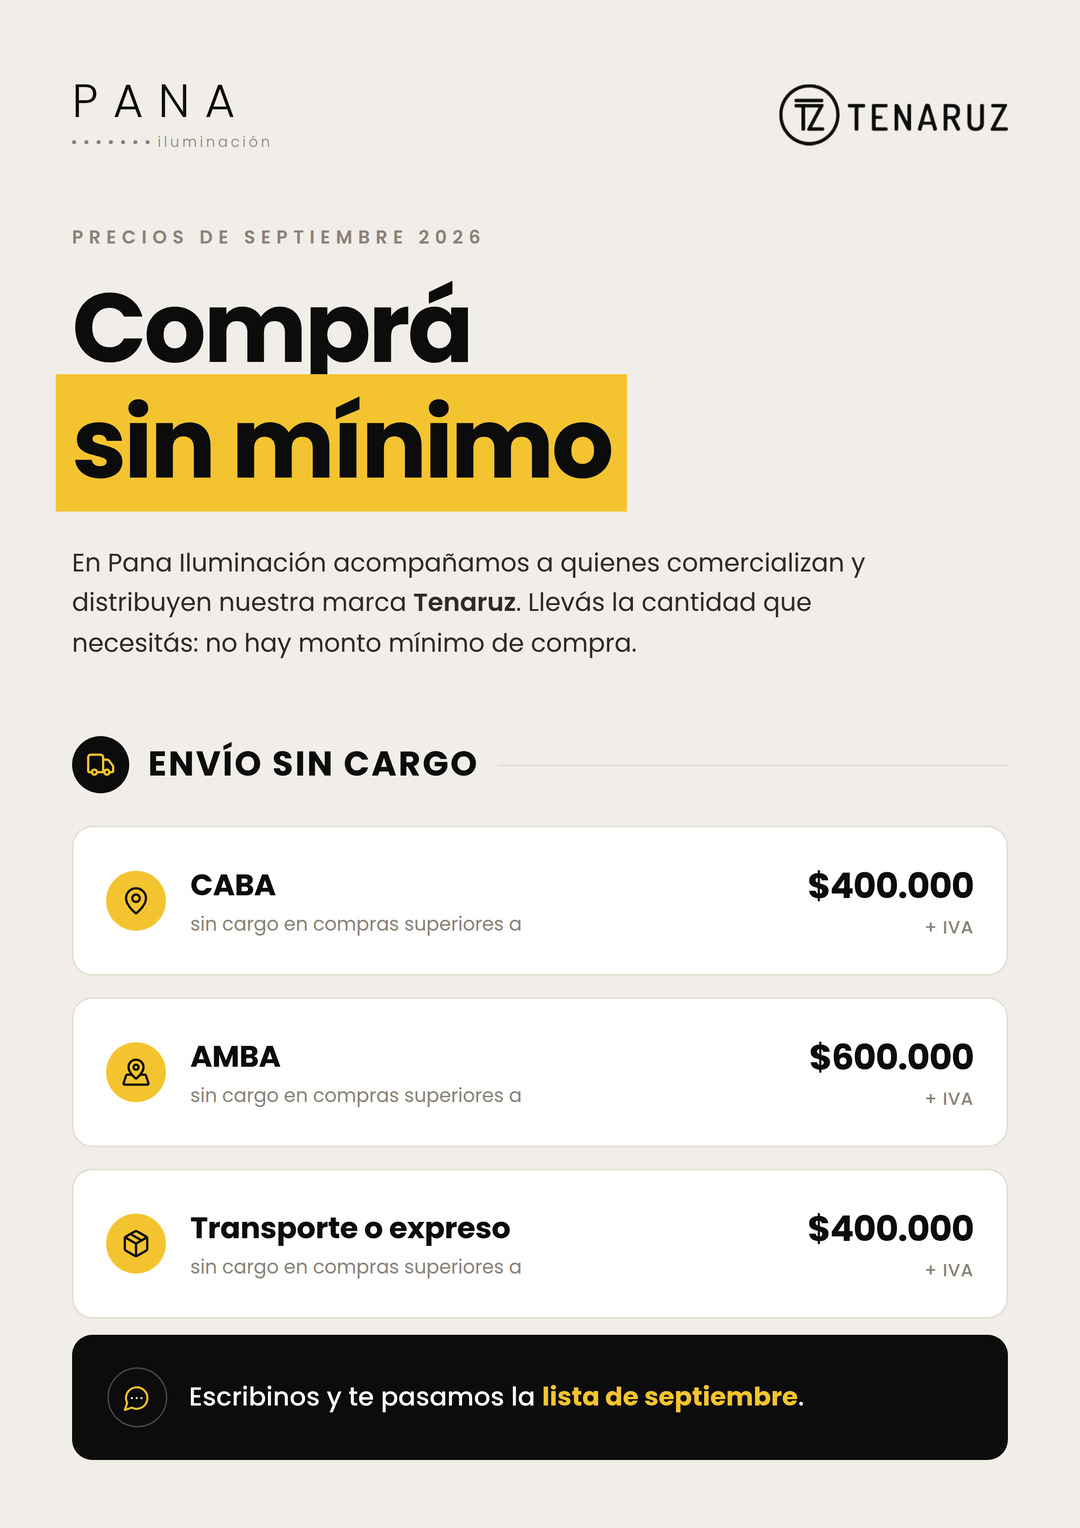
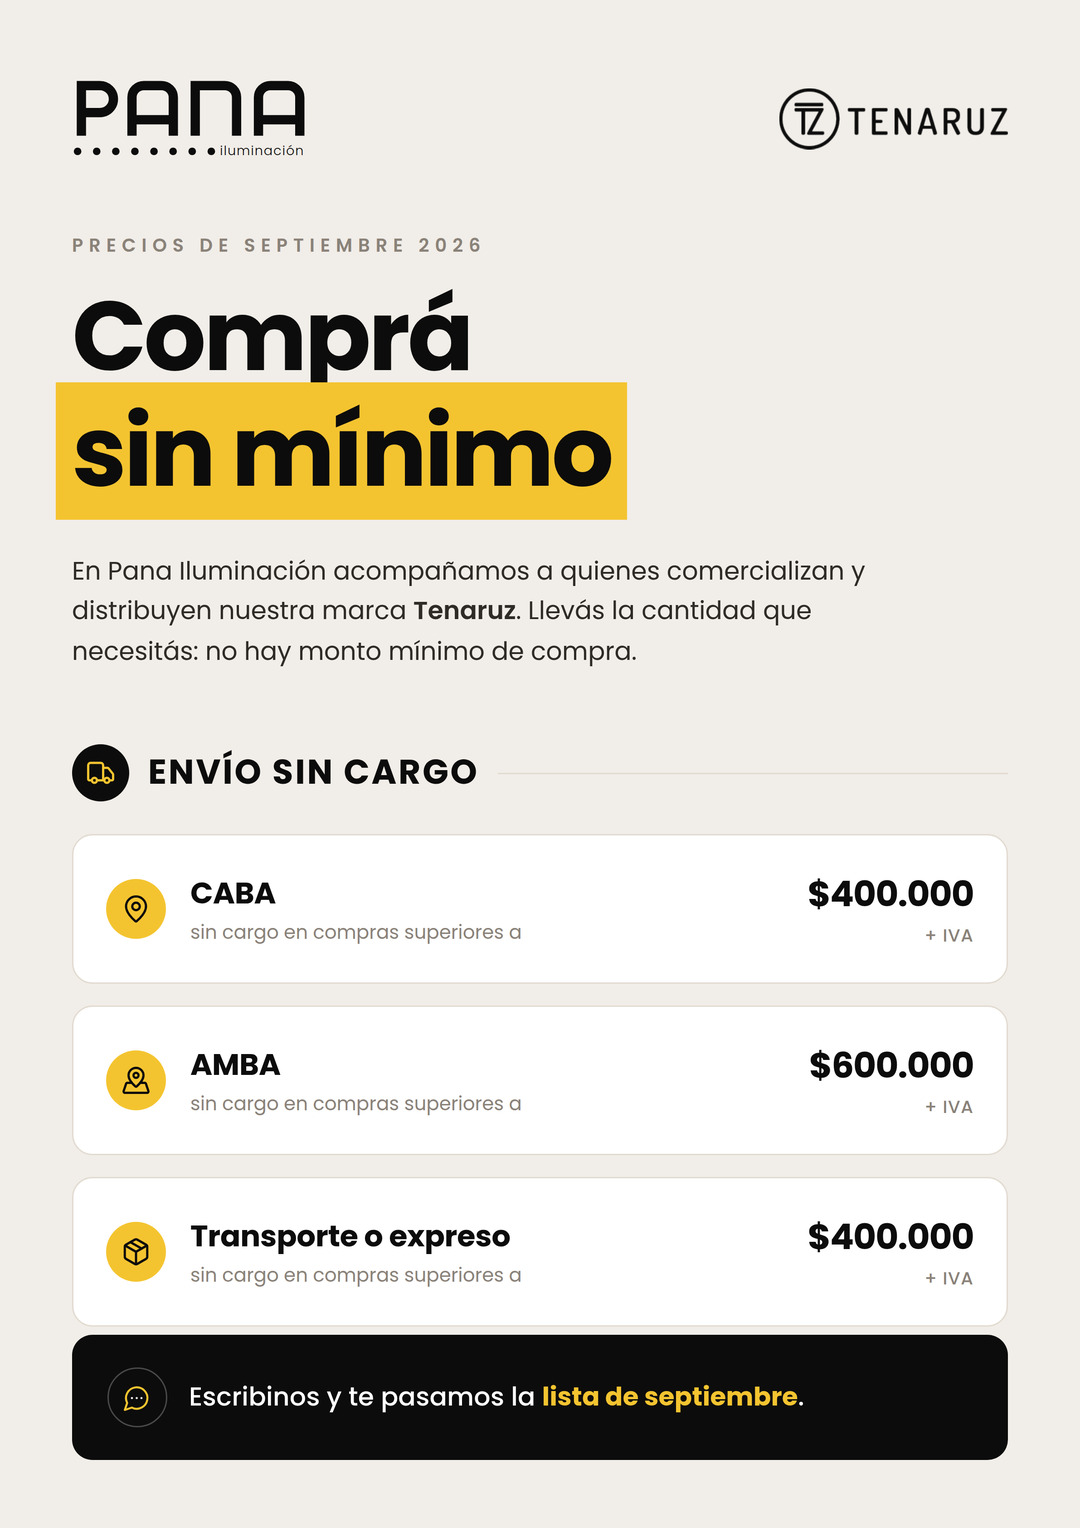
Redibujar el lockup de PANA como vector monolineal
Las letras compuestas con Poppins no eran las del logo. El mark es de trazo
uniforme, así que se dibuja con stroke sobre las líneas medias en vez de
contornear cada letra: la P con panza semicircular, las A como arco de hombros
redondeados con travesaño, la N con asta recta y hombro a la derecha.

Es un trazado a ojo sobre la imagen de referencia, no el archivo original: el
logo llegó pegado en el chat, que no baja a disco, y el sitio de la marca no es
alcanzable desde acá. Queda anotado en el README junto con las proporciones
medidas, para corregir una curva o cambiarlo por el archivo real sin rehacerlo.

Claude-Session: https://claude.ai/code/session_011TtjXybLazAdvjPJRYS2RU

diff --git a/flyers/pana_logo.py b/flyers/pana_logo.py
@@ -1,0 +1,43 @@
+"""El lockup de PANA como SVG monolineal.
+
+El logo es de trazo uniforme, así que se dibuja con `stroke` sobre las líneas
+medias en vez de contornear cada letra: los empalmes salen exactos y el grosor
+se cambia en un solo lugar.
+
+Sistema de coordenadas: altura de mayúscula de 210 a 340, grosor de trazo 22.
+"""
+
+TRAZO = 22
+PALABRA = [
+    # P: asta y panza semicircular a la derecha
+    "M36 340 V221 H80 A32 32 0 0 1 80 285 H36",
+    # A: arco de hombros redondeados sobre dos astas, con travesaño
+    "M156 340 V249 A28 28 0 0 1 184 221 H226 A28 28 0 0 1 254 249 V340",
+    "M156 302 H254",
+    # N: asta recta a la izquierda y hombro redondeado a la derecha
+    "M306 340 V221 H376 A28 28 0 0 1 404 249 V340",
+    # A
+    "M456 340 V249 A28 28 0 0 1 484 221 H526 A28 28 0 0 1 554 249 V340",
+    "M456 302 H554",
+]
+
+PUNTOS = [(27 + 45.3 * i, 377) for i in range(8)]   # 8 puntos bajo la palabra
+RADIO = 9
+
+
+def svg(color, alto=62):
+    """Devuelve el lockup completo escalado a `alto` px de alto."""
+    trazos = "".join(
+        f'<path d="{d}" fill="none" stroke="{color}" stroke-width="{TRAZO}" '
+        f'stroke-linecap="butt" stroke-linejoin="miter"/>' for d in PALABRA)
+    puntos = "".join(f'<circle cx="{x:.1f}" cy="{y}" r="{RADIO}" fill="{color}"/>'
+                     for x, y in PUNTOS)
+    # la palabra se alinea a la derecha con la "A" final y su altura de x queda
+    # centrada con la fila de puntos
+    texto = (f'<text x="565" y="386" text-anchor="end" fill="{color}" '
+             f'font-family="Poppins" font-size="31" font-weight="300" '
+             f'letter-spacing="2">iluminación</text>')
+    vb = (14, 202, 576, 200)
+    ancho = alto * vb[2] / vb[3]
+    return (f'<svg viewBox="{vb[0]} {vb[1]} {vb[2]} {vb[3]}" width="{ancho:.1f}" '
+            f'height="{alto}">{trazos}{puntos}{texto}</svg>')

diff --git a/flyers/variante_b.py b/flyers/variante_b.py
@@ -6,6 +6,7 @@ montos de envío como fichas escaneables en vez de párrafos, y cierra con un
 pedido de acción concreto. El fondo crema es el mismo de las portadillas del
 catálogo TENARUZ, así que sigue leyéndose como la misma marca.
 """
+import pana_logo
 from flyer_common import AMARILLO, FACES, NEGRO, logo, render, svg
 
 SALIDA = "PANA_septiembre_B"
@@ -37,11 +38,6 @@ body {{ width: 210mm; height: 297mm; background: {CREMA}; color: {NEGRO};
 .hoja {{ padding: 15mm 14mm 13mm; height: 100%; display: flex; flex-direction: column; }}
 
 .top {{ display: flex; justify-content: space-between; align-items: center; }}
-.marca .nombre {{ font-size: 34px; font-weight: 300; letter-spacing: 11px; line-height: 1; }}
-.marca .bajo {{ display: flex; align-items: center; gap: 6px; margin-top: 6px; }}
-.marca .puntos {{ display: flex; gap: 6px; }}
-.marca .puntos i {{ width: 3px; height: 3px; border-radius: 50%; background: {APAGADO}; }}
-.marca .sub {{ font-size: 10.5px; font-weight: 300; letter-spacing: 2.2px; color: {APAGADO}; }}
 .tz {{ width: 168px; display: block; }}
 
 .kicker {{ font-size: 13.5px; font-weight: 600; letter-spacing: 4.2px; color: {APAGADO};
@@ -83,13 +79,7 @@ h1 .marcador {{ background: {AMARILLO}; padding: 0 12px; margin-left: -12px;
 </style></head><body><div class="hoja">
 
   <div class="top">
-    <div class="marca">
-      <div class="nombre">PANA</div>
-      <div class="bajo">
-        <div class="puntos"><i></i><i></i><i></i><i></i><i></i><i></i><i></i></div>
-        <div class="sub">iluminación</div>
-      </div>
-    </div>
+    {pana_logo.svg(NEGRO, 62)}
     <img class="tz" src="{logo('tenaruz_negro.png')}" alt="Tenaruz">
   </div>
 

diff --git a/flyers/variante_a.py b/flyers/variante_a.py
@@ -3,6 +3,7 @@
 Es la reconstrucción del flyer original que venía como imagen. Se apoya en la
 curiosidad ("conocé los precios") y deja el beneficio más abajo.
 """
+import pana_logo
 from flyer_common import AMARILLO, FACES, NEGRO, logo, render, svg
 
 SALIDA = "PANA_septiembre_A"
@@ -25,11 +26,6 @@ body {{ width: 210mm; height: 297mm; background: {NEGRO}; color: #fff;
 .hoja {{ padding: 18mm 16mm 15mm; height: 100%; display: flex; flex-direction: column; }}
 
 .top {{ display: flex; justify-content: space-between; align-items: center; }}
-.marca .nombre {{ font-size: 46px; font-weight: 300; letter-spacing: 15px; line-height: 1; }}
-.marca .bajo {{ display: flex; align-items: center; gap: 7px; margin-top: 7px; }}
-.marca .puntos {{ display: flex; gap: 7px; }}
-.marca .puntos i {{ width: 3.5px; height: 3.5px; border-radius: 50%; background: #cfcfcf; }}
-.marca .sub {{ font-size: 12px; font-weight: 300; letter-spacing: 2.5px; color: #cfcfcf; }}
 .tz {{ width: 168px; display: block; }}
 
 h1 {{ font-size: 55px; font-weight: 700; line-height: 1.08; letter-spacing: -0.8px;
@@ -73,13 +69,7 @@ hr {{ border: 0; border-top: 1px solid #262626; margin: 36px 0 0; }}
 </style></head><body><div class="hoja">
 
   <div class="top">
-    <div class="marca">
-      <div class="nombre">PANA</div>
-      <div class="bajo">
-        <div class="puntos"><i></i><i></i><i></i><i></i><i></i><i></i><i></i></div>
-        <div class="sub">iluminación</div>
-      </div>
-    </div>
+    {pana_logo.svg("#FFFFFF", 62)}
     <img class="tz" src="{logo('tenaruz_blanco.png')}" alt="Tenaruz">
   </div>
 

diff --git a/flyers/README.md b/flyers/README.md
@@ -28,10 +28,17 @@ propio catálogo: se rasteriza la zona del logo a 1200 dpi y se pasa la luminanc
 canal alfa, así que sirve sobre cualquier fondo. Blanco para la A (fondo negro),
 negro para la B (fondo crema) — en las dos la idea es la misma, que contraste.
 
-El lockup de PANA todavía está compuesto con Poppins y **no son las letras reales**
-del logo. Falta el archivo original (PNG con transparencia o SVG); cuando esté, va a
-`logos/` y se reemplaza el bloque `.marca` de cada variante por un `<img>`, igual que
-el de Tenaruz.
+`pana_logo.py` dibuja el lockup de PANA como SVG. Es de trazo uniforme, así que se
+construye con `stroke` sobre las líneas medias en vez de contornear cada letra: los
+empalmes salen exactos y el grosor se cambia en un solo lugar. `svg(color, alto)`
+devuelve el bloque listo, en el color que haga falta.
+
+**Es un trazado a ojo, no el archivo original.** El logo llegó como imagen pegada en
+el chat, que no baja a disco, y la web de la marca no es alcanzable desde acá. Las
+proporciones (altura de mayúscula 130, trazo 22, radios de los hombros) salieron de
+medir la imagen. Si alguna curva no cierra con el original, se corrige ahí y listo; y
+si aparece el archivo real (SVG o PNG con transparencia), va a `logos/` y se cambia
+la llamada a `pana_logo.svg(...)` por un `<img>`, igual que el de Tenaruz.
 
 ## Qué separa a las dos versiones
 
